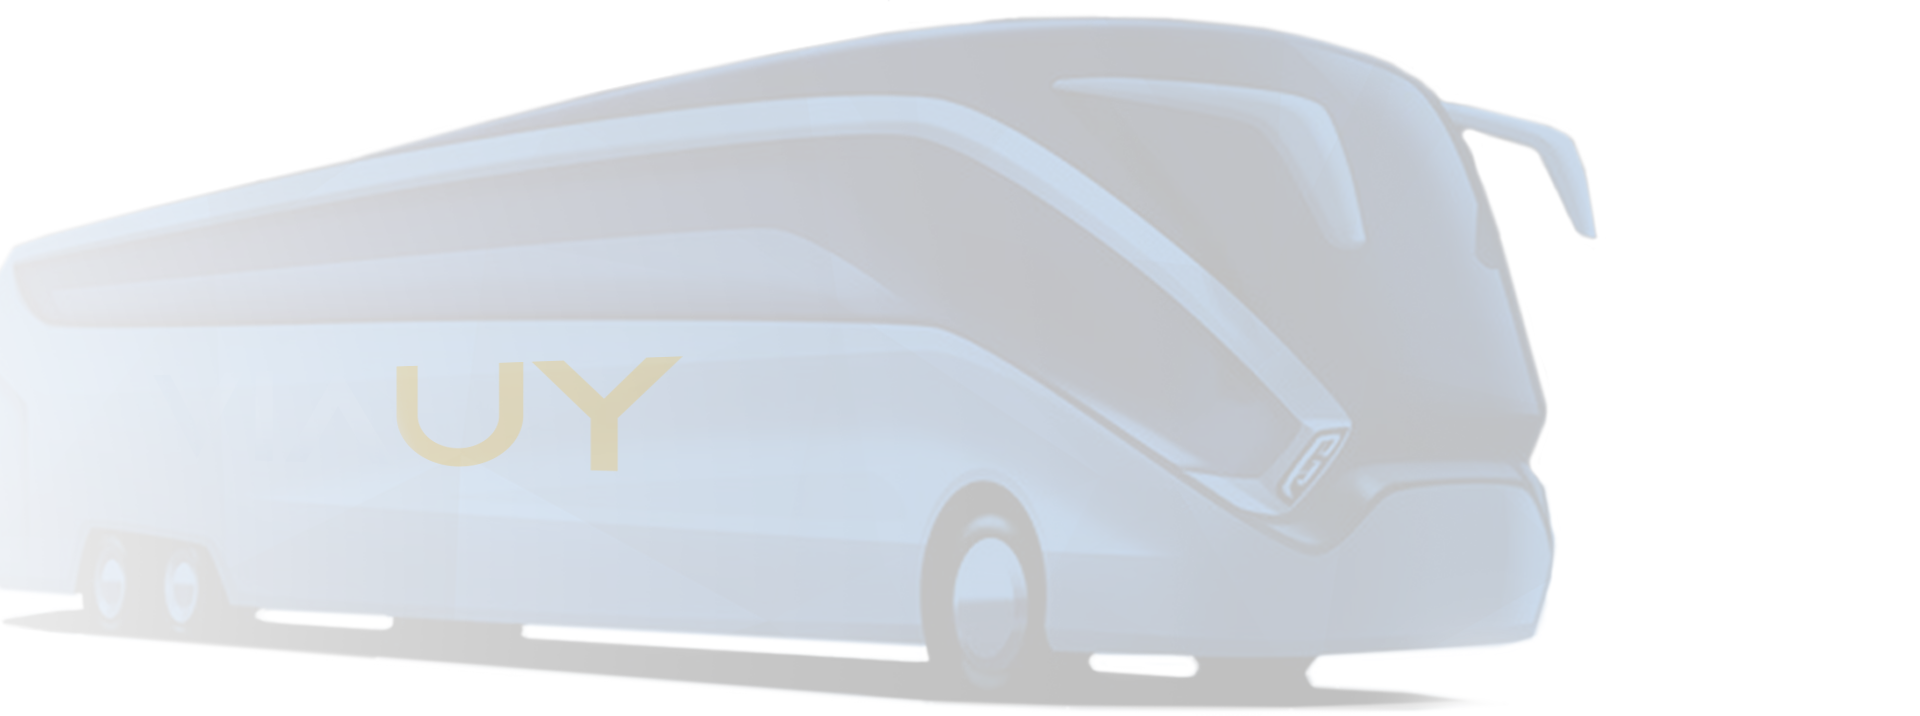
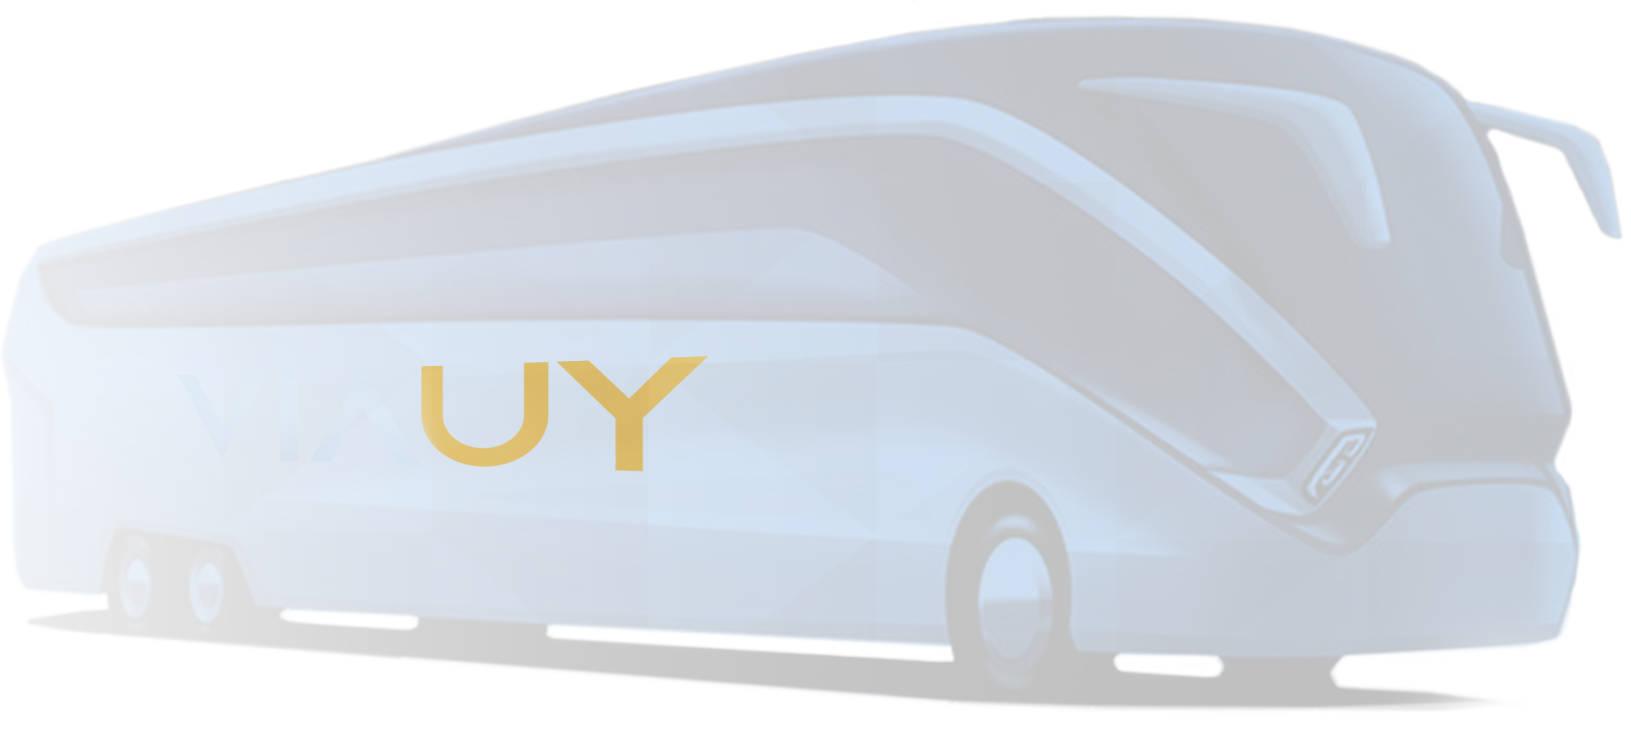
#

Changed region(s): [[0.0307, 0.0, 1.0, 1.0], [0.4598, 0.3073, 0.5518, 0.3994], [0.1226, 0.2458, 0.1533, 0.2765]]

diff --git a/css/style.css b/css/style.css
@@ -332,6 +332,7 @@
         right: 0px;
         background-color: var(--white-color);
         transition: 0.5s;;
+        box-shadow: 0 17px 15px var(--shadow-color);
       }
   
       .menuOpt {
@@ -539,16 +540,16 @@
     }
  
     .busDivition {
-      content:"";
+      display: flex;
       padding: 0 0 50px 30px;
-      width: 100%;
       overflow: hidden;
+      
     }
     
-
     .busImage {
-      width: 100%;
-      max-width: 1500px;
+      width: 200%;
+      transform:scaleX(-1);
+     
     }
 
     .reservationDivition {
@@ -759,7 +760,6 @@
 
   .lineAndTravels{
     background-color: var(--white-color);
-
     width: 100%;
     margin: 1rem;
     padding: 1rem;
@@ -1036,6 +1036,11 @@
   
   /* xs */
     @media (min-width: 475px) {
+      .busImage {
+        width: 100%;
+        transform:none;
+      }
+
       .container {
         max-width: 475px;
       }

diff --git a/index.php b/index.php
@@ -13,7 +13,7 @@
         include 'php/userInterface/navBar/navBar.php';
     ?>
     <main class = indexContent>
-            <div class = busDivition>
+            <div class = "container busDivition">
                 <img class = busImage src = 'img/BusImg.png'>
             </div>
             <div class ="container reservationDivition">
